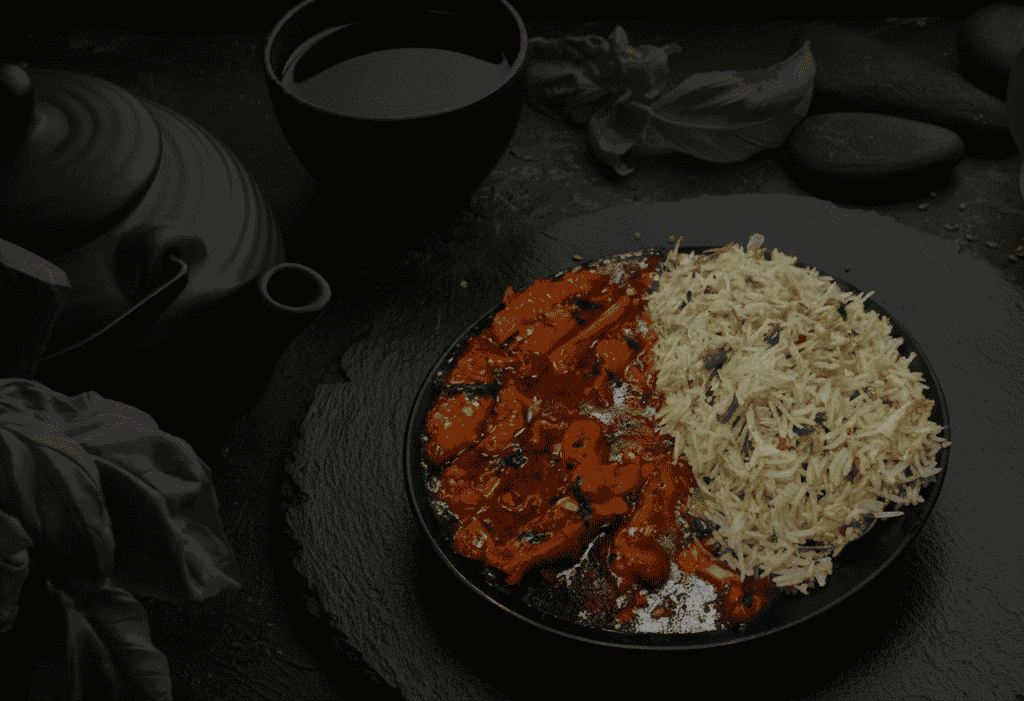
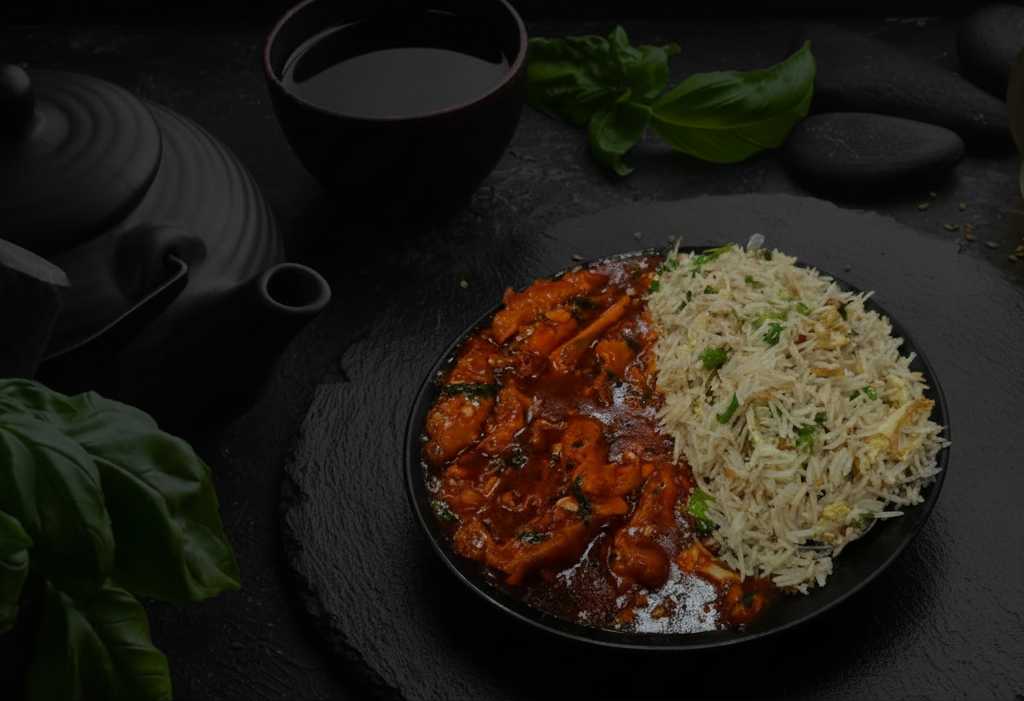
Menu Done

diff --git a/menu.html b/menu.html
@@ -168,8 +168,12 @@
 <section id="menu" class="menu">
   <div class="container">
 
-    <div class="section-header">
-      <h2>Check Our Tasty Menu</h2>
+    <div class="section-header" >
+      <a href="./MezbaanMenu.pdf" class="btn btn-secondary" download aria-label="Download full menu as PDF">
+        <span class="text text-1">Download Full Menu</span>
+        <span class="text text-2" aria-hidden="true">Download Full Menu</span>
+      </a>
+      <h2 style="margin-top: 18px;">Check Our Tasty Menu</h2>
       <p>Discover our delicious offerings crafted with authentic Indian flavors</p>
     </div>
 
@@ -196,7 +200,7 @@
         <!-- 1 -->
 <div class="menu-item filter-starters">
   <div class="menu-img">
-    <img src="./assets/images/singapoore.jpg" alt="Chicken Mezbaan Spl.">
+    <img src="./assets/images/mezbaan_special_dry.png" alt="Chicken Mezbaan Spl.">
   </div>
   <div class="menu-content">
     <a href="#" class="menu-name">Chicken Mezbaan Spl.</a>
@@ -210,7 +214,7 @@
 <!-- 2 -->
 <div class="menu-item filter-starters">
   <div class="menu-img">
-    <img src="./assets/images/starters.png" alt="Chicken Turkish Dry">
+    <img src="./assets/images/default.png" alt="Chicken Turkish Dry">
   </div>
   <div class="menu-content">
     <a href="#" class="menu-name">Chicken Turkish Dry</a>
@@ -224,7 +228,7 @@
 <!-- 3 -->
 <div class="menu-item filter-starters">
   <div class="menu-img">
-    <img src="./assets/images/starters.png" alt="Chicken Red Creamy">
+    <img src="./assets/images/default.png" alt="Chicken Red Creamy">
   </div>
   <div class="menu-content">
     <a href="#" class="menu-name">Chicken Red Creamy</a>
@@ -238,7 +242,7 @@
 <!-- 4 -->
 <div class="menu-item filter-starters">
   <div class="menu-img">
-    <img src="./assets/images/starters.png" alt="Chicken White Sauce">
+    <img src="./assets/images/chickenwhitesauce.png" alt="Chicken White Sauce">
   </div>
   <div class="menu-content">
     <a href="#" class="menu-name">Chicken White Sauce</a>
@@ -252,7 +256,7 @@
 <!-- 5 -->
 <div class="menu-item filter-starters">
   <div class="menu-img">
-    <img src="./assets/images/starters.png" alt="Lollipop Oil Dry (4pcs)">
+    <img src="./assets/images/default.png" alt="Lollipop Oil Dry (4pcs)">
   </div>
   <div class="menu-content">
     <a href="#" class="menu-name">Lollipop Oil Dry (4pcs)</a>
@@ -263,19 +267,7 @@
   </p>
 </div>
 
-<!-- 6 -->
-<div class="menu-item filter-starters">
-  <div class="menu-img">
-    <img src="./assets/images/starters.png" alt="Lollipop Masala Dry (4pcs)">
-  </div>
-  <div class="menu-content">
-    <a href="#" class="menu-name">Lollipop Masala Dry (4pcs)</a>
-    <a href="https://wa.me/919022274924?text=Order%3A%20Lollipop%20Masala%20Dry%20(4pcs)%20-%20Rs%20100" target="_blank" rel="noopener" class="menu-price" style="text-decoration:none; color:#cda45e; background:#0c0b09; padding:5px 15px; font-weight:700; border-radius:20px; font-size:1rem; border:2px solid #cda45e;">Rs 100</a>
-  </div>
-  <p class="menu-ingredients">
-    Spicy and flavorful chicken lollipops coated with tangy Indian masala.
-  </p>
-</div>
+
 
 <!-- 7 -->
 <div class="menu-item filter-starters">
@@ -294,7 +286,7 @@
 <!-- 8 -->
 <div class="menu-item filter-starters">
   <div class="menu-img">
-    <img src="./assets/images/starters.png" alt="Chicken Chilly">
+    <img src="./assets/images/default.png" alt="Chicken Chilly">
   </div>
   <div class="menu-content">
     <a href="#" class="menu-name">Chicken Chilly</a>
@@ -308,7 +300,7 @@
 <!-- 9 -->
 <div class="menu-item filter-starters">
   <div class="menu-img">
-    <img src="./assets/images/starters.png" alt="Chicken Manchurian">
+    <img src="./assets/images/default.png" alt="Chicken Manchurian">
   </div>
   <div class="menu-content">
     <a href="#" class="menu-name">Chicken Manchurian</a>
@@ -322,7 +314,7 @@
 <!-- 10 -->
 <div class="menu-item filter-starters">
   <div class="menu-img">
-    <img src="./assets/images/starters.png" alt="Chicken 65">
+    <img src="./assets/images/default.png" alt="Chicken 65">
   </div>
   <div class="menu-content">
     <a href="#" class="menu-name">Chicken 65</a>
@@ -505,7 +497,7 @@
 <!-- 5 -->
 <div class="menu-item filter-specialty">
   <div class="menu-img">
-    <img src="./assets/images/starters.png" alt="Chicken Singapuri Rice">
+    <img src="./assets/images/singapori_rice.png" alt="Chicken Singapuri Rice">
   </div>
   <div class="menu-content">
     <a href="#" class="menu-name">Chicken Singapuri Rice</a>
@@ -579,7 +571,7 @@
 <!-- 13 -->
 <div class="menu-item filter-starters">
   <div class="menu-img">
-    <img src="./assets/images/starters.png" alt="Chicken Schezwan Dry">
+    <img src="./assets/images/schezwan_dry.png" alt="Chicken Schezwan Dry">
   </div>
   <div class="menu-content">
     <a href="#" class="menu-name">Chicken Schezwan Dry</a>
@@ -593,7 +585,7 @@
 <!-- 14 -->
 <div class="menu-item filter-starters">
   <div class="menu-img">
-    <img src="./assets/images/starters.png" alt="Chicken Golden Dry">
+    <img src="./assets/images/goldendry.png" alt="Chicken Golden Dry">
   </div>
   <div class="menu-content">
     <a href="#" class="menu-name">Chicken Golden Dry</a>
@@ -847,7 +839,7 @@
 <!-- 3 -->
 <div class="menu-item filter-specialty">
   <div class="menu-img">
-    <img src="./assets/images/starters.png" alt="Chicken Dragon Rice">
+    <img src="./assets/images/dragon_rice.png" alt="Chicken Dragon Rice">
   </div>
   <div class="menu-content">
     <a href="#" class="menu-name">Chicken Dragon Rice</a>
@@ -889,7 +881,7 @@
 <!-- 6 -->
 <div class="menu-item filter-specialty">
   <div class="menu-img">
-    <img src="./assets/images/starters.png" alt="Chicken Mezbaan Spl. Rice">
+    <img src="./assets/images/default.png" alt="Chicken Mezbaan Spl. Rice">
   </div>
   <div class="menu-content">
     <a href="#" class="menu-name">Chicken Mezbaan Spl. Rice</a>
@@ -965,7 +957,7 @@
 /* Menu Section Styles */
 .menu {
   padding: 60px 0;
-  margin-top: 180px; /* Increased to prevent overlap with header */
+  margin-top: 90px; /* Reduced gap above section header to bring content closer to top */
 }
 
 .menu-two-columns {

diff --git a/index.html b/index.html
@@ -471,7 +471,7 @@
           <h2 class="headline-1 section-title">Restaurant Photos</h2>
 
           <p class="section-text">
-            A glimpse into our space and dishes. Tap any image to view it larger.
+            A glimpse into our space and restaurant owner.
           </p>
 
           <div class="gallery-grid">
@@ -480,7 +480,7 @@
             </figure>
 
             <figure class="gallery-item">
-              <img src="./assets/images/musa.jpg" width="285" height="285" loading="lazy" alt="Gallery image 2" class="w-100">
+              <img src="./assets/images/musa1.jpg" width="285" height="285" loading="lazy" alt="Gallery image 2" class="w-100">
             </figure>
 
             <figure class="gallery-item">
@@ -648,7 +648,7 @@
           </ul>
 
           <a href="menu.html" class="btn btn-primary">
-            <span class="text text-1">Order Now</span>
+            <span class="text text-1">Try Now</span>
 
             <span class="text text-2" aria-hidden="true">Order Now</span>
           </a>
